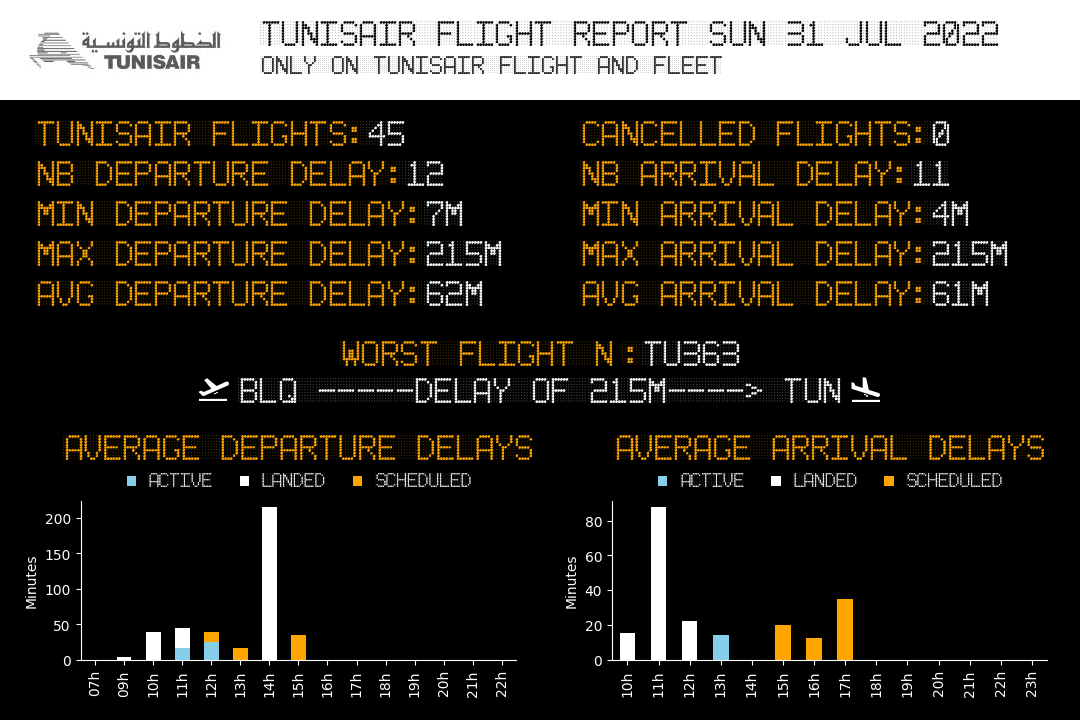
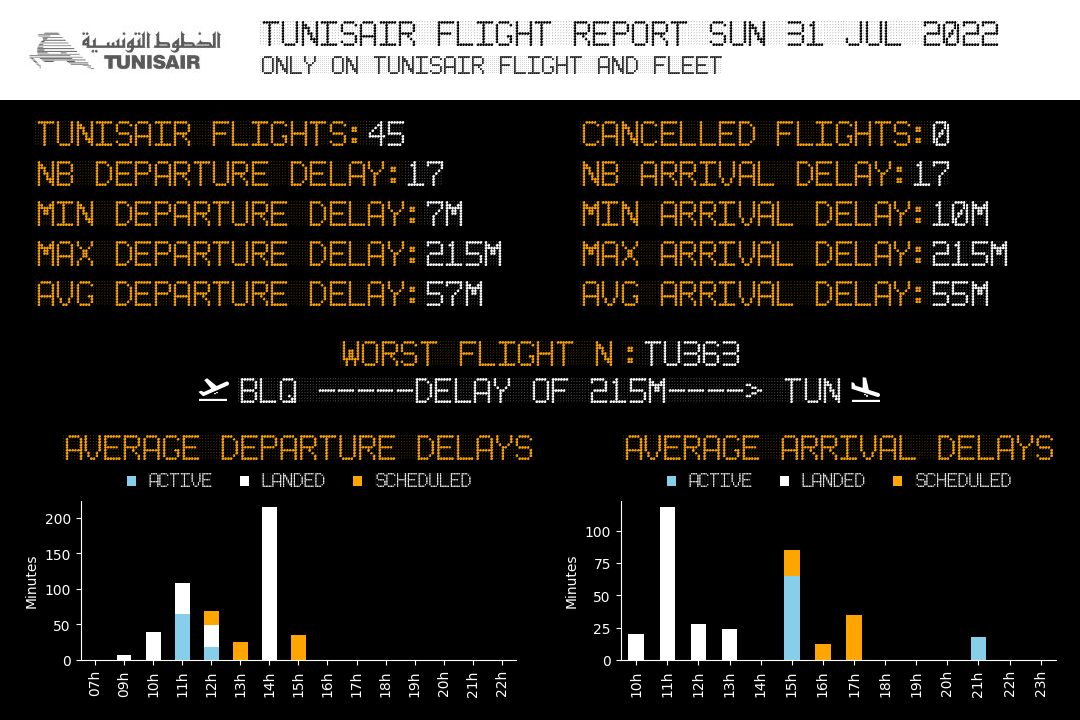
adding twitter post with API V2

diff --git a/post_to_twitter/post_tweet_with_image.py b/post_to_twitter/post_tweet_with_image.py
@@ -1,21 +1,21 @@
 import tweepy
-from get_cred import get_authentification_json
+from post_to_twitter.get_cred import get_authentification_json
 
 def post_tweet_with_pic(tweet_msg, picture_loc=None):
     twitter_auth_keys = get_authentification_json()
     if twitter_auth_keys == {}:
         print('you need to fill credential.json')
         return
-    auth = tweepy.OAuthHandler(
-            twitter_auth_keys['consumer_key'],
-            twitter_auth_keys['consumer_secret']
-            )
-    auth.set_access_token(
-            twitter_auth_keys['access_token'],
-            twitter_auth_keys['access_token_secret']
-            )
-    api = tweepy.API(auth)
 
+    auth = tweepy.OAuthHandler(
+    consumer_key=twitter_auth_keys['consumer_key'],
+    consumer_secret=twitter_auth_keys['consumer_secret'],
+    access_token=twitter_auth_keys['access_token'],
+    access_token_secret=twitter_auth_keys['access_token_secret']
+    )
+    
+ 
+    api = tweepy.API(auth)
 
     # Upload image
     if picture_loc is not None:

diff --git a/utils/create_daily_report.py b/utils/create_daily_report.py
@@ -119,6 +119,10 @@ def create_daily_png_report():
             result_fetch = int(round(result_fetch,0))
             if (sql_op == 'MAX') & (type_f == 'ARRIVAL'):
                 arrival_delayed_max = result_fetch
+            elif (sql_op =='COUNT') & (type_f == 'ARRIVAL'):
+                nb_delays_arr = result_fetch
+            elif (sql_op =='COUNT') & (type_f == 'DEPARTURE'):
+                nb_delays_dep = result_fetch
             v_start = v_start_dep if type_f == 'DEPARTURE' else v_start_arr
             h_start_bytype = h_start+ (40*(index_op+1))
             sql_op_txt = 'NB' if sql_op == 'COUNT' else sql_op
@@ -177,5 +181,5 @@ def create_daily_png_report():
     os.remove(plot_path_arrival_png)
     
     report_img.save(picture_to_save)
-    return picture_to_save
+    return picture_to_save, nb_delays_arr, nb_delays_dep, arrival_delayed_max, text_worse
 

diff --git a/daily_cron.py b/daily_cron.py
@@ -1,7 +1,14 @@
 from utils.tunisair_alert import get_flight
 from utils.create_daily_report import create_daily_png_report
+from post_to_twitter.post_tweet_with_image import post_tweet_with_pic
+from datetime import datetime
+import pytz
 
+tz = "Africa/Tunis"
+current_time = datetime.now().astimezone(pytz.timezone(tz))
 
-get_flight('departure',True)
-get_flight('arrival',True)
-create_daily_png_report()
+#get_flight('departure',True)
+#get_flight('arrival',True)
+picture_to_upload, nb_delays_arr, nb_delays_dep, arrival_delayed_max, text_worse = create_daily_png_report()
+post_tweet_with_pic(f'📊 Daily ingest of ✈  #Tunisair delay performance\nDate: {current_time.strftime("%d-%m-%Y")} with {nb_delays_dep} #delayed_departure and {nb_delays_arr} #delayed_arrival\nThe worst flight was\n🛫{text_worse}🛬\n#Tunisia #GitHub #Flight #🇹🇳',picture_to_upload)
+
